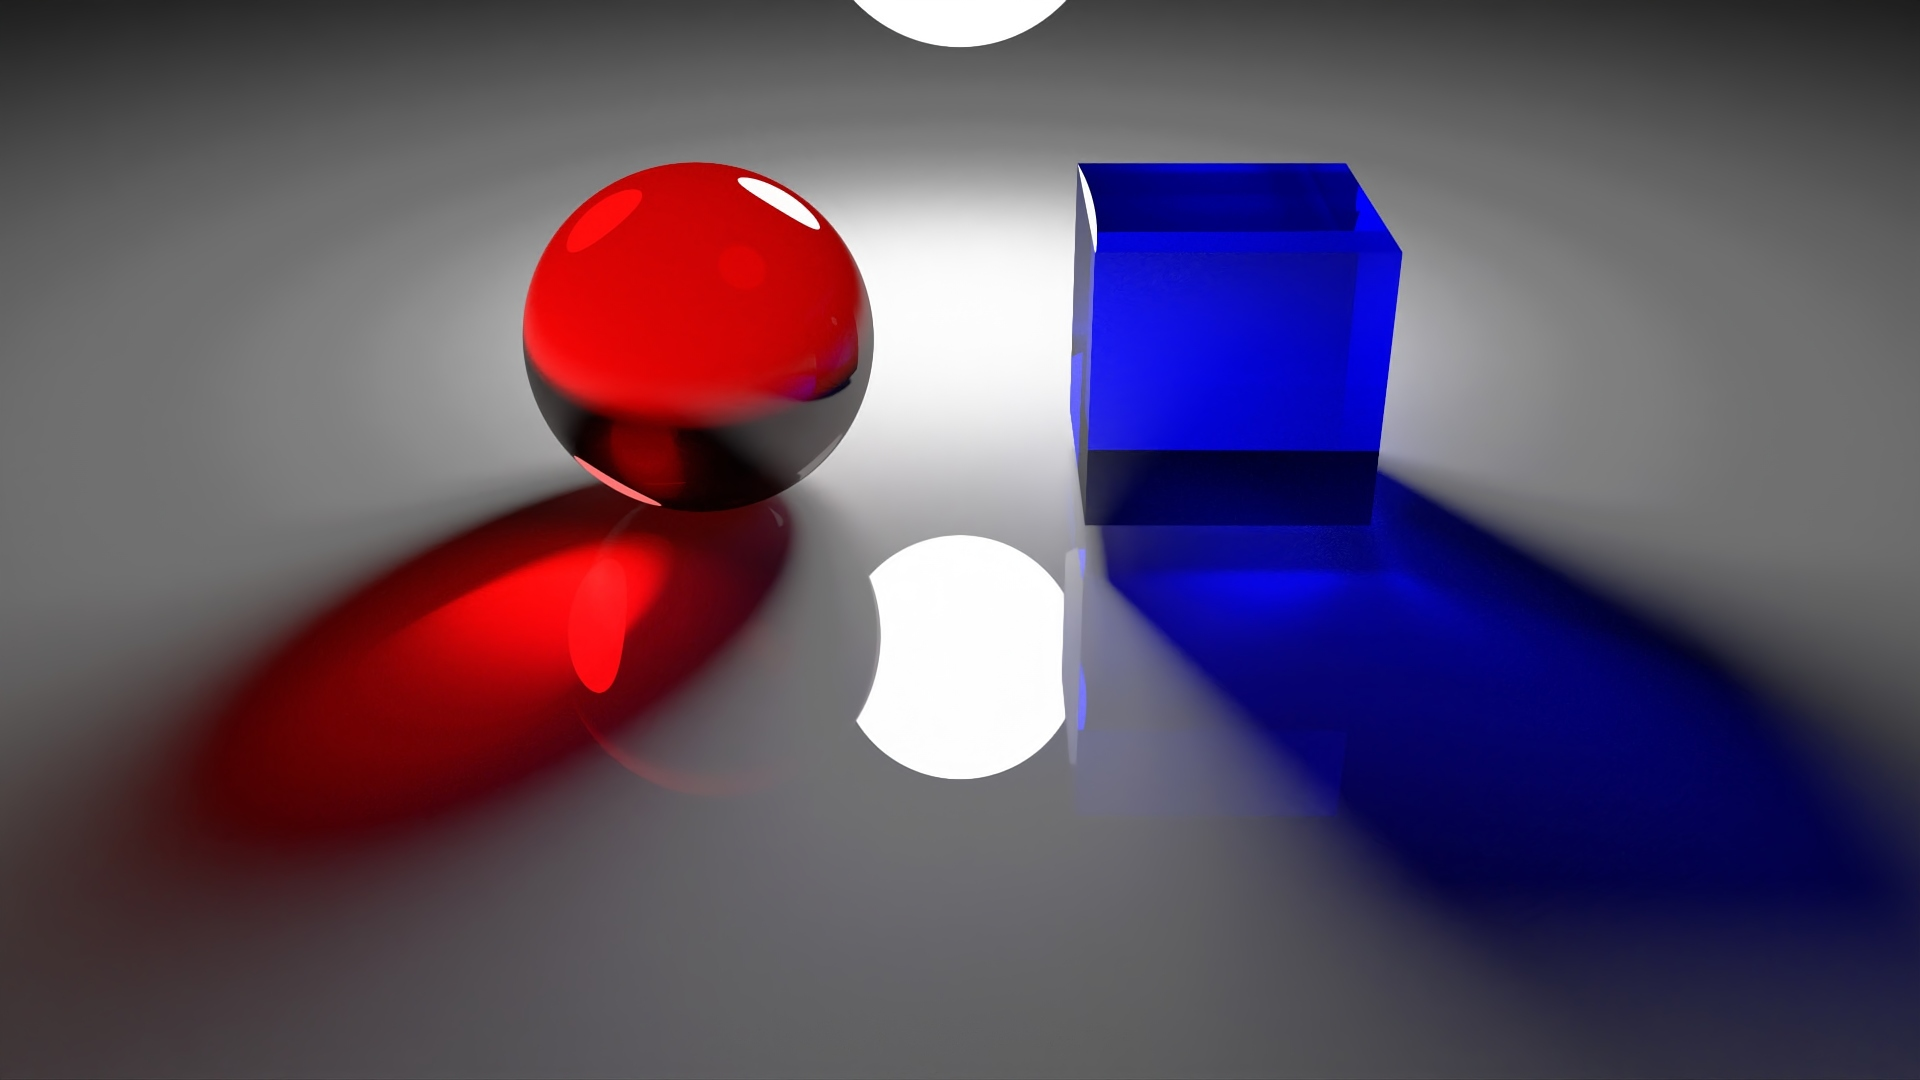
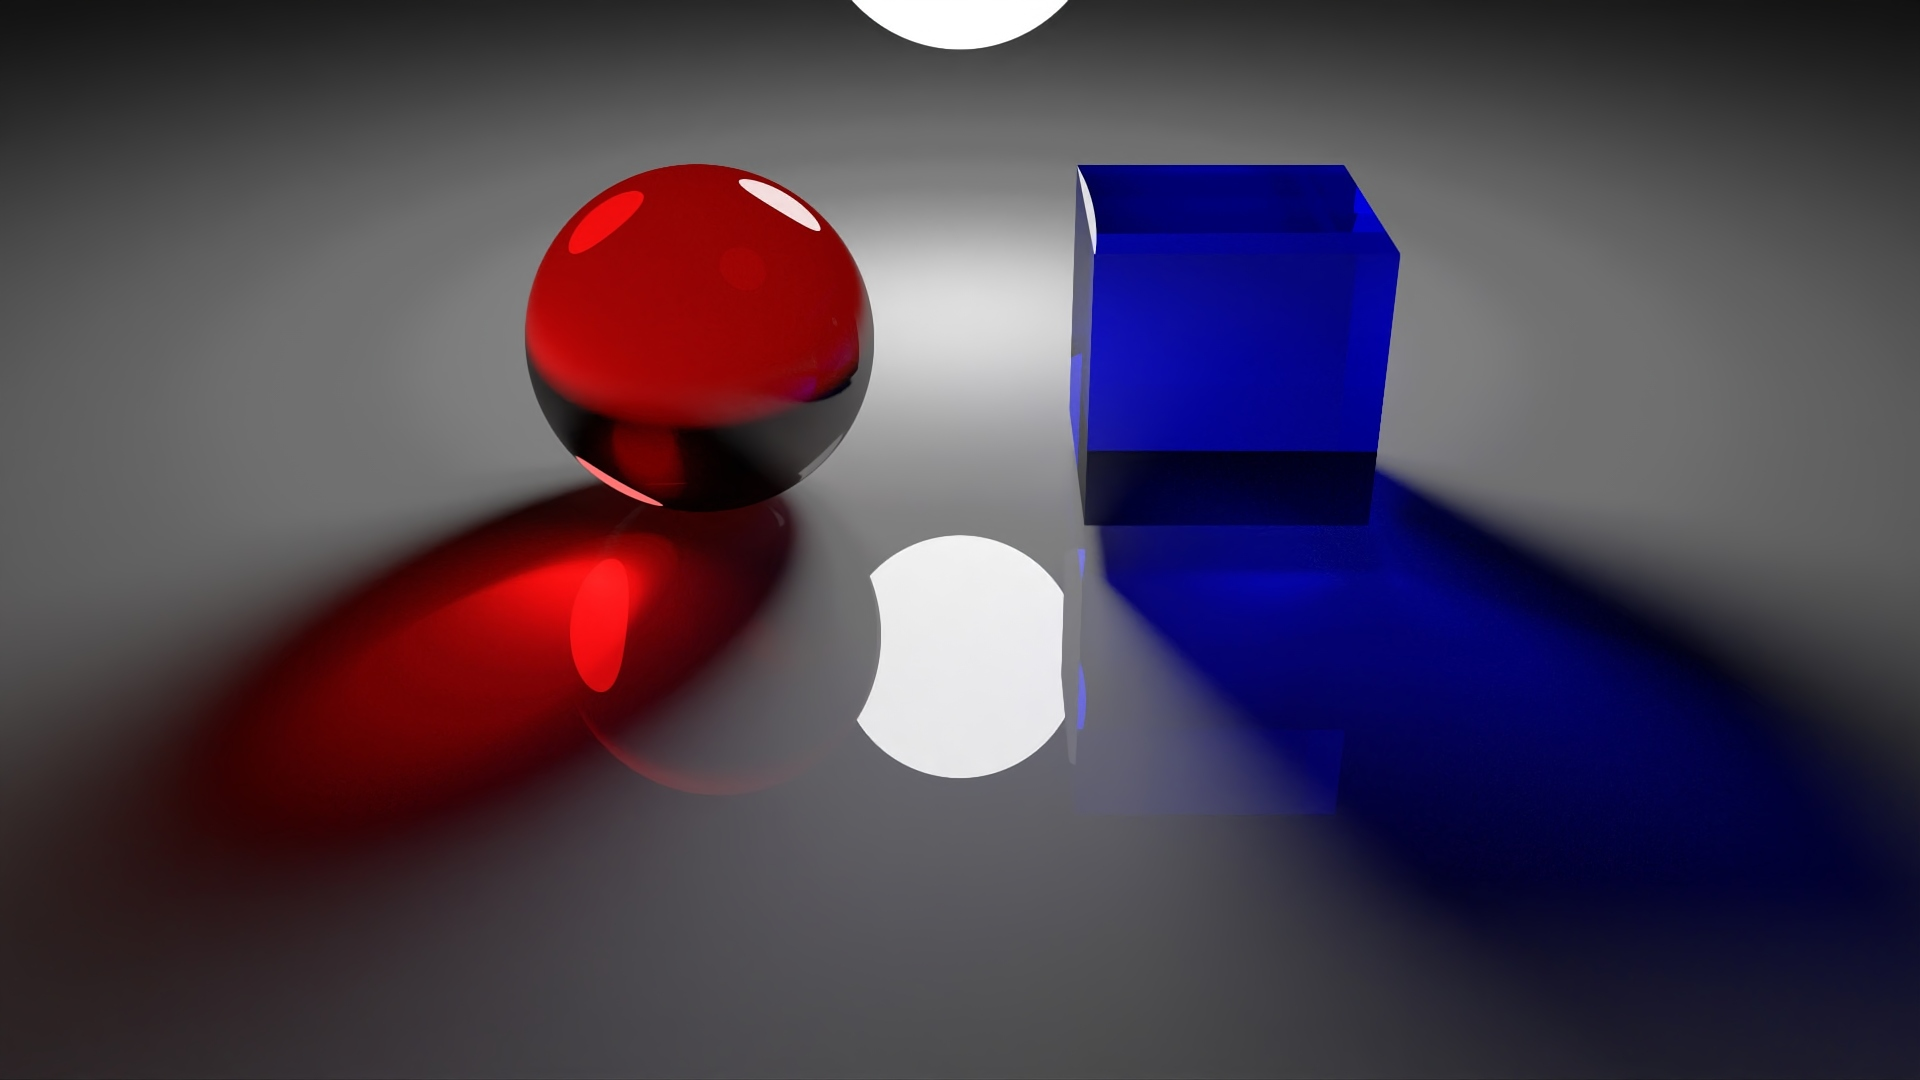
Added less noisy rendering alternative

diff --git a/main.cpp b/main.cpp
@@ -47,16 +47,23 @@ int main()
         scaleW = (double)sW / (double)w,
         scaleH = (double)sH / (double)h;
 
+    Color* render = new Color[dim];
+    for (int i = 0; i < dim; i++)
+        render[i] = Color();
 
-    sf::Image img;
+
+    sf::Image renderImg;
+    sf::Image displayImg;
     sf::Texture tex;
+    sf::Texture displayTex;
     sf::RenderTexture renderTex;
-    sf::Sprite sprite, drawSprite;
+    sf::Sprite sprite, displaySprite;
     sf::Shader shader;
 
-    img.create(w, h, sf::Color::Black);
+    renderImg.create(w, h, sf::Color::Black);
+    displayImg.create(w, h, sf::Color::Black);
     renderTex.create(w, h);
-    drawSprite.setScale((float)scaleW, (float)scaleH);
+    displaySprite.setScale((float)scaleW, (float)scaleH);
     shader.loadFromFile("RaytracerShader.frag", sf::Shader::Type::Fragment);
 
 
@@ -69,7 +76,7 @@ int main()
     fixed.y /= 2;
 
 
-    bool cumulativeLighting, randomizeSampleDir, giveControl, disableLighting, viewBounds;
+    bool cumulativeLighting, realRender, randomizeSampleDir, giveControl, disableLighting, viewBounds;
     unsigned int perPixelSamples, maxBounces;
 
     {
@@ -77,6 +84,7 @@ int main()
         cam.fov = 32.65f;
 
         cumulativeLighting = true;
+        realRender = true;
         randomizeSampleDir = true;
         disableLighting = false;
         viewBounds = false;
@@ -127,7 +135,6 @@ int main()
             shader.setUniform(std::format("{}Bounds[{}]", shapeName, iBounds), sf::Glsl::Vec4(0.7, 3.0, -0.65, 2.75));
             shader.setUniform(std::format("{}BoundCoverage[{}]", shapeName, iBounds++), iMat / matLen);*/
 
-
             /*
             shader.setUniform(std::format("{}Shapes[{}]", shapeName, iShape++), sf::Glsl::Vec3(5.0, 0.0, -7.0));
             shader.setUniform(std::format("{}Shapes[{}]", shapeName, iShape++), sf::Glsl::Vec3(7.0, 2.5, -6.0));
@@ -145,8 +152,8 @@ int main()
             shader.setUniform(std::format("{}Shapes[{}]", shapeName, iShape++), sf::Glsl::Vec3(0.7, 0.2, -0.8));
             shader.setUniform(std::format("{}Shapes[{}]", shapeName, iShape++), sf::Glsl::Vec3(2.3, 1.8, 0.8));
             shader.setUniform(std::format("{}Mats[{}]", shapeName, iMat++), sf::Glsl::Vec4(1.0, 1.0, riGlass, 0.0)); // Surface
-            shader.setUniform(std::format("{}Mats[{}]", shapeName, iMat++), sf::Glsl::Vec4(0.05, 0.05, 1.0, 0.1));  // Albedo
-            shader.setUniform(std::format("{}Mats[{}]", shapeName, iMat++), sf::Glsl::Vec4(0.7, 0.7, 1.0, 1.0));  // Specular
+            shader.setUniform(std::format("{}Mats[{}]", shapeName, iMat++), sf::Glsl::Vec4(0.0, 0.0, 1.0, 0.15));  // Albedo
+            shader.setUniform(std::format("{}Mats[{}]", shapeName, iMat++), sf::Glsl::Vec4(0.75, 0.75, 1.0, 0.15));  // Specular
             shader.setUniform(std::format("{}Mats[{}]", shapeName, iMat++), sf::Glsl::Vec4(0.0, 0.0, 0.0, 0.0));  // Emission
             shader.setUniform(std::format("{}Mats[{}]", shapeName, iMat++), sf::Glsl::Vec4(0.0, 0.0, 0.0, 0.0));  // Absorption
 
@@ -264,7 +271,6 @@ int main()
             shader.setUniform(std::format("{}Bounds[{}]", shapeName, iBounds), sf::Glsl::Vec4(13.00456, 1.2383, 0.59414, 2.185));
             shader.setUniform(std::format("{}BoundCoverage[{}]", shapeName, iBounds++), 3);*/
 
-
             /*shader.setUniform(std::format("{}Shapes[{}]", shapeName, iShape++), sf::Glsl::Vec4(12.0, 12.5, 7.0, 6.0));
             shader.setUniform(std::format("{}Mats[{}]", shapeName, iMat++), sf::Glsl::Vec4(0.0, 0.0, 1.0, 0.0)); // Surface
             shader.setUniform(std::format("{}Mats[{}]", shapeName, iMat++), sf::Glsl::Vec4(1.0, 1.0, 1.0, 1.0)); // Albedo
@@ -275,7 +281,6 @@ int main()
             shader.setUniform(std::format("{}Bounds[{}]", shapeName, iBounds), sf::Glsl::Vec4(12.0, 12.5, 7.0, 6.0));
             shader.setUniform(std::format("{}BoundCoverage[{}]", shapeName, iBounds++), 1);*/
 
-
             /*shader.setUniform(std::format("{}Shapes[{}]", shapeName, iShape++), sf::Glsl::Vec4(2.5, 1.5, -7.0, 1.5));
             shader.setUniform(std::format("{}Mats[{}]", shapeName, iMat++), sf::Glsl::Vec4(0.0, 0.0, riAir, 0.0)); // Surface
             shader.setUniform(std::format("{}Mats[{}]", shapeName, iMat++), sf::Glsl::Vec4(1.0, 1.0, 1.0, 0.25));  // Albedo
@@ -284,12 +289,11 @@ int main()
             shader.setUniform(std::format("{}Mats[{}]", shapeName, iMat++), sf::Glsl::Vec4(1.0, 1.0, 0.333, 0.0)); // Absorption
             */
 
-
             // Blender Comparison
             shader.setUniform(std::format("{}Shapes[{}]", shapeName, iShape++), sf::Glsl::Vec4(-1.5, 1.0, 0.0, 1.0));
             shader.setUniform(std::format("{}Mats[{}]", shapeName, iMat++), sf::Glsl::Vec4(1.0, 1.0, riGlass, 0.0)); // Surface
-            shader.setUniform(std::format("{}Mats[{}]", shapeName, iMat++), sf::Glsl::Vec4(1.0, 0.05, 0.05, 0.1));  // Albedo
-            shader.setUniform(std::format("{}Mats[{}]", shapeName, iMat++), sf::Glsl::Vec4(1.0, 0.7, 0.7, 1.0));  // Specular
+            shader.setUniform(std::format("{}Mats[{}]", shapeName, iMat++), sf::Glsl::Vec4(1.0, 0.0, 0.0, 0.15));  // Albedo
+            shader.setUniform(std::format("{}Mats[{}]", shapeName, iMat++), sf::Glsl::Vec4(1.0, 0.75, 0.75, 0.15));  // Specular
             shader.setUniform(std::format("{}Mats[{}]", shapeName, iMat++), sf::Glsl::Vec4(0.0, 0.0, 0.0, 0.0));  // Emission
             shader.setUniform(std::format("{}Mats[{}]", shapeName, iMat++), sf::Glsl::Vec4(0.0, 0.0, 0.0, 0.0));  // Absorption
 
@@ -301,7 +305,7 @@ int main()
             shader.setUniform(std::format("{}Mats[{}]", shapeName, iMat++), sf::Glsl::Vec4(0.0, 0.0, 1.0, 0.0)); // Surface
             shader.setUniform(std::format("{}Mats[{}]", shapeName, iMat++), sf::Glsl::Vec4(1.0, 1.0, 1.0, 1.0));  // Albedo
             shader.setUniform(std::format("{}Mats[{}]", shapeName, iMat++), sf::Glsl::Vec4(0.0, 0.0, 0.0, 0.0));  // Specular
-            shader.setUniform(std::format("{}Mats[{}]", shapeName, iMat++), sf::Glsl::Vec4(1.0, 1.0, 1.0, 150.0));  // Emission
+            shader.setUniform(std::format("{}Mats[{}]", shapeName, iMat++), sf::Glsl::Vec4(1.0, 1.0, 1.0, 350.0));  // Emission
             shader.setUniform(std::format("{}Mats[{}]", shapeName, iMat++), sf::Glsl::Vec4(0.0, 0.0, 0.0, 0.0));  // Absorption
 
             shader.setUniform(std::format("{}Bounds[{}]", shapeName, iBounds), sf::Glsl::Vec4(0.0, 3.0, 3.0, 1.1));
@@ -439,10 +443,10 @@ int main()
             shader.setUniform(std::format("{}Shapes[{}]", shapeName, iShape++), sf::Glsl::Vec3(0.0, 0.0, 0.0));
             shader.setUniform(std::format("{}Shapes[{}]", shapeName, iShape++), sf::Glsl::Vec3(0.0, 1.0, 0.0));
             shader.setUniform(std::format("{}Mats[{}]", shapeName, iMat++), sf::Glsl::Vec4(0.0, 1.0, 1.0, 0.0)); // Surface
-            shader.setUniform(std::format("{}Mats[{}]", shapeName, iMat++), sf::Glsl::Vec4(1.0, 1.0, 1.0, 1.0));  // Albedo
-            shader.setUniform(std::format("{}Mats[{}]", shapeName, iMat++), sf::Glsl::Vec4(1.0, 1.0, 1.0, 0.1));  // Specular
-            shader.setUniform(std::format("{}Mats[{}]", shapeName, iMat++), sf::Glsl::Vec4(0.0, 0.0, 0.0, 0.0));  // Emission
-            shader.setUniform(std::format("{}Mats[{}]", shapeName, iMat++), sf::Glsl::Vec4(0.0, 0.0, 0.0, 0.0));  // Absorption
+            shader.setUniform(std::format("{}Mats[{}]", shapeName, iMat++), sf::Glsl::Vec4(1.0, 1.0, 1.0, 1.0)); // Albedo
+            shader.setUniform(std::format("{}Mats[{}]", shapeName, iMat++), sf::Glsl::Vec4(1.0, 1.0, 1.0, 0.03)); // Specular
+            shader.setUniform(std::format("{}Mats[{}]", shapeName, iMat++), sf::Glsl::Vec4(0.0, 0.0, 0.0, 0.0)); // Emission
+            shader.setUniform(std::format("{}Mats[{}]", shapeName, iMat++), sf::Glsl::Vec4(0.0, 0.0, 0.0, 0.0)); // Absorption
             // Blender Comparison
 
             shader.setUniform(std::format("{}Count", shapeName), iMat / matLen);
@@ -499,6 +503,12 @@ int main()
                 {
                     cumulativeFrameCount = 0;
                     cumulativeLighting = !cumulativeLighting;
+                }
+                else if (event.key.code == sf::Keyboard::E)
+                {
+                    realRender = !realRender;
+                    cumulativeFrameCount = 0;
+                    hasMoved = true;
                 }
                 else if (event.key.code == sf::Keyboard::V)
                     hasMoved = true;
@@ -572,6 +582,27 @@ int main()
         {
             cumulativeFrameCount = 0;
             renderTex.clear();
+            for (int i = 0; i < dim; i++)
+                render[i] = Color();
+        }
+
+        if (realRender && cumulativeFrameCount > 0)
+        {
+            for (int i = 0; i < dim; i++)
+            {
+                unsigned int
+                    x = i % w,
+                    y = i / w;
+
+                Color pix = renderImg.getPixel(x, y);
+                render[i] += pix;
+
+                displayImg.setPixel(x, y, {
+                    (uint8_t)(render[i].r * 255.0 / cumulativeFrameCount),
+                    (uint8_t)(render[i].g * 255.0 / cumulativeFrameCount),
+                    (uint8_t)(render[i].b * 255.0 / cumulativeFrameCount)
+                });
+            }
         }
 
 
@@ -591,33 +622,39 @@ int main()
             shader.setUniform("camRight", cam.right.ToShader());
 
             shader.setUniform("viewBounds", viewBounds);
+            shader.setUniform("realRender", realRender);
             shader.setUniform("disableLighting", disableLighting);
             shader.setUniform("randomizeDir", randomizeSampleDir);
 
             shader.setUniform("frameCount", cumulativeLighting ? (int)cumulativeFrameCount : 0);
-
-            /*{
-                double offset = (utils::RandNum() - 0.5) / 3.0;
-                shader.setUniform("aabbShapes[2]", sf::Glsl::Vec3(1.1 + offset, 3.2, -2.3));
-                shader.setUniform("aabbShapes[3]", sf::Glsl::Vec3(2.4 + offset, 3.6, -2.0));
-            }*/
         }
 
-        tex.loadFromImage(img);
+        tex.loadFromImage(renderImg);
         sprite.setTexture(tex);
 
         shader.setUniform("lastFrame", renderTex.getTexture());
 
         renderTex.draw(sprite, &shader);
         renderTex.display();
-        drawSprite.setTexture(renderTex.getTexture());
 
+        if (realRender)
+        {
+            renderImg = renderTex.getTexture().copyToImage();
+
+            displayTex.loadFromImage(displayImg);
+            displaySprite.setTexture(displayTex);
+        }
+        else
+            displaySprite.setTexture(renderTex.getTexture());
+        
         window.clear();
-        window.draw(drawSprite);
+        window.draw(displaySprite);
         window.display();
 
         cumulativeFrameCount++;
         totFrames++;
     }
+
+    delete[] render;
     return 0;
 }

diff --git a/Graphics.h b/Graphics.h
@@ -25,6 +25,9 @@ struct Color
     Color(const Vec3& v) :
         r((double)v.x), g((double)v.y), b((double)v.z)
     {}
+    Color(const sf::Color& c) :
+        r(((double)c.r) / 255.0), g(((double)c.g) / 255.0), b(((double)c.b) / 255.0)
+    {}
 
 
     operator Vec3() const
